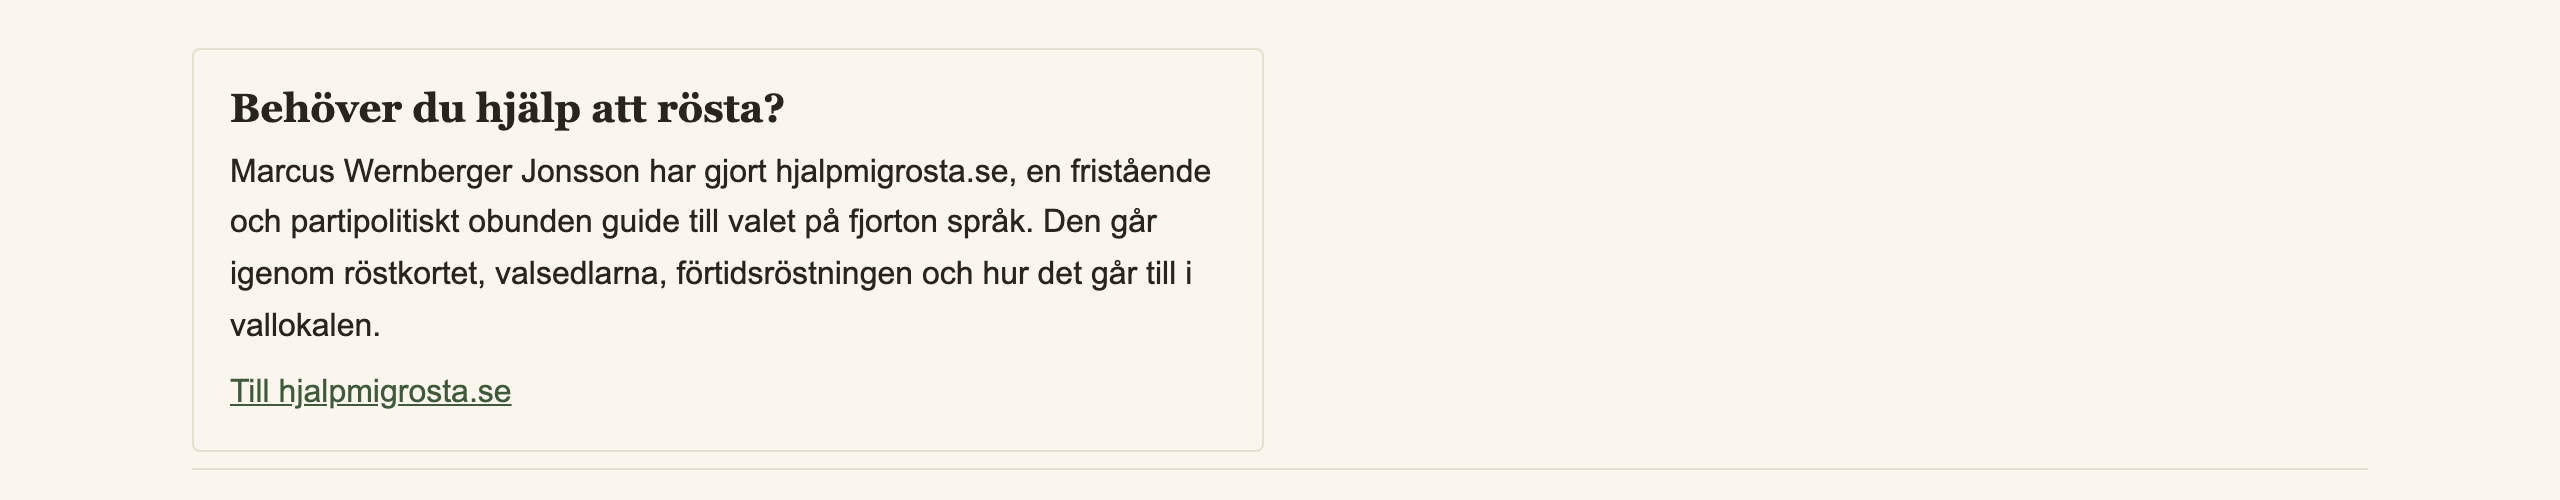
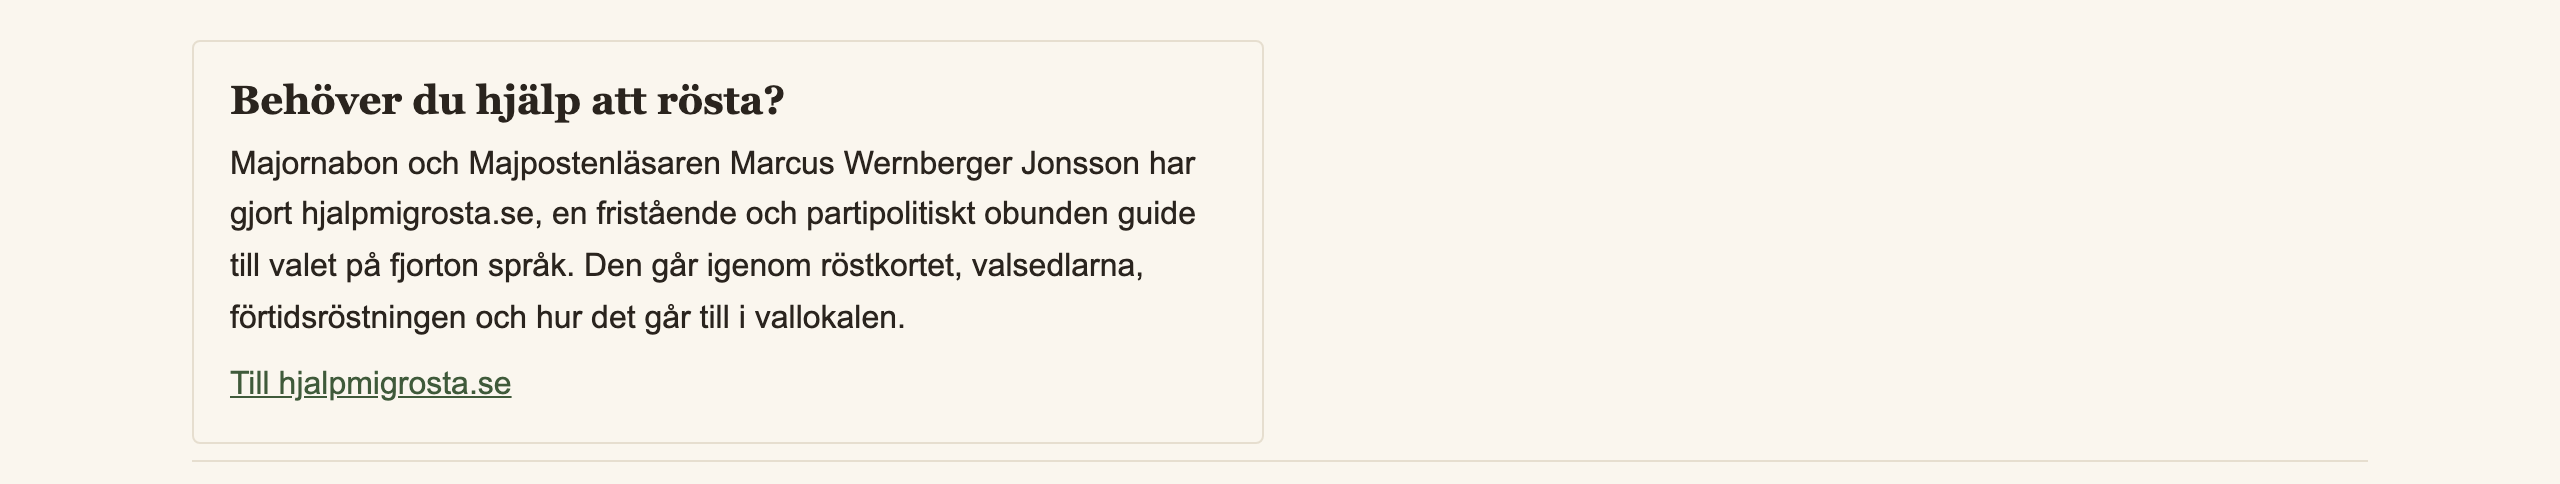
Rösthjälpsrutan: Majornabon i texten, sista meningen kapad på mobil
Daniels formulering och hans kapning.

- Texten inleds "Majornabon och Majpostenläsaren Marcus Wernberger Jonsson har
  gjort hjalpmigrosta.se ...". Att han bor i Majorna och läser Majposten är
  redaktionens uppgift, inte något som står på hans sida; det står i README och
  HANDOVER så att nästa session vet varifrån det kommer.
- Ny konfignyckel "extra" i en ruta: en avslutande mening som bara visas från
  600 px containerbredd. Den ligger i samma stycke som text, så meningarna
  hänger ihop när båda syns, och klassen .ruta-extra är dold som standard.
  Uppmätt på index: utan den är rutan 6 rader i 320 px och 5 i 390 px, med den
  8 respektive 7. Nyckeln finns i schema.KONFIG_STANDARD med tomt värde.
- Kontrollerat att rutan överlever valnattens konfigskrivning: uppdatera_2026.py
  --valnatt rör bara ar, standardAr och valnatt, och hjalp med extra följer med
  genom las_konfig och skriv_konfig till både konfig.json och konfig.js.

pytest 374 passerade. skal-check, beehiiv-check, tvaar-check, historik-check och
bredd-check gröna (227 av 227) på nybyggda testsidor.

diff --git a/data/konfig.js b/data/konfig.js
@@ -1,1 +1,1 @@
-window.MAJPOSTEN=window.MAJPOSTEN||{data:{}};window.MAJPOSTEN.data["konfig"]={"ar":["2010","2014","2018","2022"],"standardAr":"2022","valnatt":false,"adress":"https://majposten.se/val2026","inbaddad":false,"skrivUrl":true,"stickyTopp":105,"valdag":"2026-09-13","toppsvar":{"mening":"Från cirka klockan 20 på valnatten kommer siffrorna löpande här."},"historik":{"visa":true,"mening":{"rd":"","rf":"","kf":""}},"samarbete":{"visa":false,"namn":"Majornas Bryggeri","text":"I samarbete med","lank":"","logga":"","valvaka":{"visa":false,"rubrik":"Valvaka på Majornas Bryggeri","text":"[KOLLA] Tid, plats och vad som händer.","lank":""}},"hjalp":{"visa":true,"rubrik":"Behöver du hjälp att rösta?","text":"Marcus Wernberger Jonsson har gjort hjalpmigrosta.se, en fristående och partipolitiskt obunden guide till valet på fjorton språk. Den går igenom röstkortet, valsedlarna, förtidsröstningen och hur det går till i vallokalen.","lank":"https://hjalpmigrosta.se/sv/start/","lanktext":"Till hjalpmigrosta.se"}};
+window.MAJPOSTEN=window.MAJPOSTEN||{data:{}};window.MAJPOSTEN.data["konfig"]={"ar":["2010","2014","2018","2022"],"standardAr":"2022","valnatt":false,"adress":"https://majposten.se/val2026","inbaddad":false,"skrivUrl":true,"stickyTopp":105,"valdag":"2026-09-13","toppsvar":{"mening":"Från cirka klockan 20 på valnatten kommer siffrorna löpande här."},"historik":{"visa":true,"mening":{"rd":"","rf":"","kf":""}},"samarbete":{"visa":false,"namn":"Majornas Bryggeri","text":"I samarbete med","lank":"","logga":"","valvaka":{"visa":false,"rubrik":"Valvaka på Majornas Bryggeri","text":"[KOLLA] Tid, plats och vad som händer.","lank":""}},"hjalp":{"visa":true,"rubrik":"Behöver du hjälp att rösta?","text":"Majornabon och Majpostenläsaren Marcus Wernberger Jonsson har gjort hjalpmigrosta.se, en fristående och partipolitiskt obunden guide till valet på fjorton språk.","lank":"https://hjalpmigrosta.se/sv/start/","lanktext":"Till hjalpmigrosta.se","extra":"Den går igenom röstkortet, valsedlarna, förtidsröstningen och hur det går till i vallokalen."}};

diff --git a/valgrafik.css b/valgrafik.css
@@ -49,6 +49,7 @@
 .mp-val .ruta h2 { font: 700 20px/1.3 var(--serif); margin: 0 0 6px; }
 .mp-val .ruta p { font-size: 16px; margin: 0 0 8px; }
 .mp-val .ruta p:last-child { margin-bottom: 0; }
+.mp-val .ruta-extra { display: none; }   /* rutans avslutande mening: bara från 600 px, se @container nedan */
 .mp-val .not { font-size: 14px; line-height: 1.5; color: var(--sten); margin: 8px 0 0; }
 .mp-val .not b { color: var(--black); }
 .mp-val a { color: var(--gron); }
@@ -245,6 +246,7 @@
 .mp-val .fel { background: #F3E3DF; color: var(--falu); padding: 12px 16px; border-radius: 4px; }
 @container (min-width: 600px) {
   .mp-val .statusrad { min-height: 26px; }   /* här ryms hela raden på en rad, även den längsta valnattsvarianten */
+  .mp-val .ruta-extra { display: inline; }   /* här ryms rutans sista mening utan att bli en vägg */
   .mp-val .toppsvar { min-height: 314px; }   /* uppmätt: alla partier utom Övriga, åtta rader 282 plus rubrikens 31,6 = 313,6 */
   .mp-val h1 { font-size: 44px; }
   .mp-val .stapel-rad { grid-template-columns: 150px 1fr 96px; }

diff --git a/valgrafik.js b/valgrafik.js
@@ -527,7 +527,14 @@ function lankad(text, url, klass) {   // tom länk ger ren text, aldrig ett tomt
 }
 function ruta(post, standardLanktext) {
   const el = h("div", { class: "ruta" }, h("h2", {}, post.rubrik || ""));
-  if (post.text) el.append(h("p", {}, post.text));
+  // post.extra är en avslutande mening som bara visas från 600 px containerbredd: på en telefon blir
+  // rutan annars en textvägg som skjuter ned kartan. Den ligger i samma stycke, inte i ett eget, så att
+  // texten läses som en sammanhängande mening när den syns.
+  if (post.text) {
+    const stycke = h("p", {}, post.text);
+    if (post.extra) stycke.append(" ", h("span", { class: "ruta-extra" }, post.extra));
+    el.append(stycke);
+  }
   // target _top: blocket ligger i en iframe hos Beehiiv, och utan det byts grafiken mot den länkade
   // sidan inuti iframen i stället för att läsaren lämnar till den. Utanför en iframe beter sig _top
   // precis som ett vanligt klick.

diff --git a/tests/test_inbaddning.py b/tests/test_inbaddning.py
@@ -753,3 +753,20 @@ def test_omritade_distrikt_tonas_i_konturkartorna():
     assert "rakneord(omritade.size)" in karta, "små tal skrivs ut i löptext, inte som siffra"
     assert 'är tonat" : "är tonade"' in karta, "noten böjer sig efter antalet"
     assert "omritade.size" in karta, "noten nämner tonen bara när något faktiskt är tonat"
+
+
+def test_rutans_sista_mening_kapas_pa_mobil():
+    """Rösthjälpsrutans avslutande mening visas först från 600 px containerbredd. Uppmätt på index:
+    utan den är rutan 6 rader i 320 px och 5 i 390 px, med den 8 respektive 7."""
+    js = JS.read_text("utf-8")
+    css = CSS.read_text("utf-8")
+    kropp = js[js.index("function ruta("):]
+    kropp = kropp[:kropp.index("\n}\n")]
+    assert "post.extra" in kropp and 'class: "ruta-extra"' in kropp, "meningen ligger i en egen span"
+    assert 'h("p", {}, post.text)' in kropp, "spanen ligger i samma stycke som texten"
+    dold = next((r for r in css.splitlines() if r.startswith(".mp-val .ruta-extra {")), None)
+    assert dold and "display: none" in dold, "dold som standard, alltså på mobil"
+    syns = None
+    for m in re.finditer(r"@container \(min-width: 600px\) \{(.*?)\n\}\n", css, re.S):
+        syns = syns or next((r for r in m.group(1).splitlines() if r.strip().startswith(".mp-val .ruta-extra {")), None)
+    assert syns and "display: inline" in syns, "visas från 600 px containerbredd"

diff --git a/scripts/schema.py b/scripts/schema.py
@@ -21,10 +21,12 @@ KONFIG_STANDARD = {
         "valvaka": {"visa": False, "rubrik": "Valvaka på Majornas Bryggeri",
                     "text": "[KOLLA] Tid, plats och vad som händer.", "lank": ""},
     },
+    # "extra" är en avslutande mening som sidan bara visar från 600 px containerbredd: på en telefon
+    # blir rutan annars en textvägg. Tom som standard, redaktionen fyller den i data/konfig.json.
     "hjalp": {
         "visa": False, "rubrik": "Behöver du hjälp att rösta?",
         "text": "hjalpmigrosta.se förklarar hur valet går till, på flera språk.",
-        "lank": "https://hjalpmigrosta.se", "lanktext": "Till hjalpmigrosta.se",
+        "extra": "", "lank": "https://hjalpmigrosta.se", "lanktext": "Till hjalpmigrosta.se",
     },
 }
 

diff --git a/docs/HANDOVER.md b/docs/HANDOVER.md
@@ -94,7 +94,7 @@ Göteborg hade 411 valdistrikt 2022 inklusive uppsamlingsdistriktet. `uppdatera_
 15. **En enda jämförelsemarkör i "Hela Majorna"**, inte två. Riket för riksdagsvalet, Västra Götaland för regionvalet, Göteborg för kommunvalet - samma områden som "Majorna mot Sverige" använder, i stället för att visa både Göteborg och riket samtidigt (Daniel: "för plottrigt").
 16. **Kortets topp tre-mening borttagen.** Den upprepade det staplarna redan visar. Kvar blev en enda dämpad rad: valdeltagande (med jämförelseområdet inom parentes) och antal giltiga röster. **Ändrat i grupp 1 2026-09-07:** även den raden är borta - valdeltagandet står redan i toppsvaret. Underraden bär numera bara valnattens "X av Y distrikt räknade." och är tom och dold i övrigt.
 17. **"Röstdelningen" ersatt helt.** Det gamla lutningsdiagrammet (SVG) byttes mot HTML-rader i samma stil som "Majorna mot Sverige": en rad per parti med markörer för riksdag (cirkel), region (romb) och kommun (kvadrat) på en gemensam procentaxel, plus exakta tal. Andelarna räknas ur en kohort av distrikt som är räknade i alla val som visas, inte ur de färdiga aggregaten, så att valnattens ofullständiga data inte blandar ihop olika distriktsmängder.
-18. **Samarbetsblock och rösthjälp förberedda.** En rad "I samarbete med Majornas Bryggeri" i sidhuvudet och upp till två rutor (valvaka, hjalpmigrosta.se) direkt under, allt styrt av `samarbete`/`hjalp` i `data/konfig.json`. **Ändrat 2026-09-08:** rösthjälpsrutan är påslagen (`hjalp.visa: true`) och pekar på hjalpmigrosta.se, en fristående och partipolitiskt obunden valguide gjord av Marcus Wernberger Jonsson. Texten är kontrollerad mot sidans egen om-sida och mot dess "Hur röstar jag": fjorton språk räknade ur språkväljaren, och guiden tar upp röstkortet, valsedlarna, förtidsröstningen och vallokalen. Samarbetsraden och valvakerutan är fortfarande avstängda, med Daniels platshållartexter. Rutornas länkar fick samtidigt `target="_top"`: rösthjälpsrutan är den första länken grafiken har i standardläget, och utan `_top` hände ingenting alls vid klick inuti Beehiivs iframe - uppmätt i `docs/beehiivtest.html`, där toppfönstret nu går till hjalpmigrosta.se. Samma dag kortades källraden i "Om siffrorna" till bara `meta.kalla`: ordet slutlig eller preliminär står redan där, så statusmeningen var en upprepning, och andelsdefinitionen togs bort på Daniels begäran. En avslutande punkt i `kalla` skalas av innan raden skrivs, eftersom historikårens filer har en och 2022 års inte - annars stod det "per valdistrikt 2018.." i väljarens historiska år.
+18. **Samarbetsblock och rösthjälp förberedda.** En rad "I samarbete med Majornas Bryggeri" i sidhuvudet och upp till två rutor (valvaka, hjalpmigrosta.se) direkt under, allt styrt av `samarbete`/`hjalp` i `data/konfig.json`. **Ändrat 2026-09-08:** rösthjälpsrutan är påslagen (`hjalp.visa: true`) och pekar på hjalpmigrosta.se, en fristående och partipolitiskt obunden valguide gjord av Marcus Wernberger Jonsson. Texten är kontrollerad mot sidans egen om-sida och mot dess "Hur röstar jag": fjorton språk räknade ur språkväljaren, och guiden tar upp röstkortet, valsedlarna, förtidsröstningen och vallokalen. Samarbetsraden och valvakerutan är fortfarande avstängda, med Daniels platshållartexter. Texten nämner att han är Majornabo och Majpostenläsare; det är redaktionens uppgift, inte något som står på hans sida, och står här så att nästa session vet varifrån den kommer. Rutans avslutande mening ligger i konfignyckeln `extra` och visas först från 600 px containerbredd - på en telefon blev rutan annars 8 rader i 320 px i stället för 6. Rutornas länkar fick samtidigt `target="_top"`: rösthjälpsrutan är den första länken grafiken har i standardläget, och utan `_top` hände ingenting alls vid klick inuti Beehiivs iframe - uppmätt i `docs/beehiivtest.html`, där toppfönstret nu går till hjalpmigrosta.se. Samma dag kortades källraden i "Om siffrorna" till bara `meta.kalla`: ordet slutlig eller preliminär står redan där, så statusmeningen var en upprepning, och andelsdefinitionen togs bort på Daniels begäran. En avslutande punkt i `kalla` skalas av innan raden skrivs, eftersom historikårens filer har en och 2022 års inte - annars stod det "per valdistrikt 2018.." i väljarens historiska år.
 19. **Beehiivs `iframe srcdoc` kartlagd och kompenserad.** Djuplänkar och URL-skrivning går via `window.parent.location` när föräldern går att nå (`sidLocation()`/`sidHistory()`), eftersom iframens egen adress är `about:srcdoc`. `stickyTopp` höjdes från 16 till 105 px (Beehiivs klibbiga meny är 89 px) och används även som `scroll-margin-top`, eftersom `position: sticky` är verkningslöst inuti iframen (inget rullar där). Se README-avsnittet Beehiiv och `docs/beehiivtest.html`.
 
 20. **Valnatten läser Valmyndighetens JSON, inte xlsx.** 2026 publiceras resultatet som zip-filer med JSON på `resultat.val.se/resultatfiler/val2026/`. `scripts/hamta_2026.py` hämtar de tre filer Majorna behöver (riksdagen för hela landet, regionvalet för Västra Götaland, kommunvalet för Göteborg), kontrollerar md5 mot `index.md5` och signaturerna mot Valmyndighetens certifikat, och packar upp till `data/valnatt/<tidsstämpel>/` med `senaste` som symlänk. `scripts/valnatt.py` mappar formatet till sidans schema. Xlsx- och CSV-vägarna finns kvar som reservvägar. Filval sker på katalog plus suffix, aldrig på hela filnamnet: prefixet skiljer sig mellan genrep och skarpt.

diff --git a/README.md b/README.md
@@ -156,13 +156,15 @@ Två redaktionella block som styrs helt från `data/konfig.json`: en samarbetsra
                "valvaka": { "visa": false, "rubrik": "Valvaka på Majornas Bryggeri",
                             "text": "[KOLLA] Tid, plats och vad som händer.", "lank": "" } },
 "hjalp":     { "visa": true, "rubrik": "Behöver du hjälp att rösta?",
-               "text": "Marcus Wernberger Jonsson har gjort hjalpmigrosta.se, en fristående och partipolitiskt obunden guide till valet på fjorton språk. Den går igenom röstkortet, valsedlarna, förtidsröstningen och hur det går till i vallokalen.",
+               "text": "Majornabon och Majpostenläsaren Marcus Wernberger Jonsson har gjort hjalpmigrosta.se, en fristående och partipolitiskt obunden guide till valet på fjorton språk.",
+               "extra": "Den går igenom röstkortet, valsedlarna, förtidsröstningen och hur det går till i vallokalen.",
                "lank": "https://hjalpmigrosta.se/sv/start/", "lanktext": "Till hjalpmigrosta.se" }
 ```
 
 - `samarbete.visa` slår på raden "I samarbete med Majornas Bryggeri" i sidhuvudet, under toppsvaret. Raden visas inte i bildläget och inte när `inbaddad` är på, eftersom rubriken då är dold.
 - `samarbete.logga` är en adress till en bild, antingen absolut eller relativ till `data-bas` (lägg filen i `bilder/`, till exempel `bilder/majornas-bryggeri.png`). Loggan visas i högst 44 px höjd med namnet som alt-text. Tom logga ger bara text.
-- `samarbete.valvaka.visa` slår på valvakerutan, och kräver att `samarbete.visa` också är på. `hjalp.visa` slår på rösthjälpsrutan för sig; den är påslagen sedan 2026-09-08 och pekar på hjalpmigrosta.se. Rutornas länkar har `target="_top"`: utan det byter en länk ut grafiken mot den länkade sidan **inuti** Beehiivs iframe i stället för att läsaren lämnar dit, och i praktiken hände ingenting alls vid klick (uppmätt i `docs/beehiivtest.html`). Utanför en iframe beter sig `_top` som ett vanligt klick. Antalet språk i texten (fjorton) är räknat ur sidans egen språkväljare 2026-09-08 - lägger de till fler måste talet ändras för hand. Rutorna ligger sida vid sida från 900 px containerbredd, under varandra på mobil, och visas även när `inbaddad` är på.
+- `samarbete.valvaka.visa` slår på valvakerutan, och kräver att `samarbete.visa` också är på. `hjalp.visa` slår på rösthjälpsrutan för sig; den är påslagen sedan 2026-09-08 och pekar på hjalpmigrosta.se. Rutornas länkar har `target="_top"`: utan det byter en länk ut grafiken mot den länkade sidan **inuti** Beehiivs iframe i stället för att läsaren lämnar dit, och i praktiken hände ingenting alls vid klick (uppmätt i `docs/beehiivtest.html`). Utanför en iframe beter sig `_top` som ett vanligt klick. Antalet språk i texten (fjorton) är räknat ur sidans egen språkväljare 2026-09-08 - lägger de till fler måste talet ändras för hand. Att Marcus Wernberger Jonsson bor i Majorna och läser Majposten är redaktionens uppgift, inte något som står på hans sida.
+- `extra` i en ruta är en avslutande mening som bara visas från 600 px containerbredd (`.ruta-extra`, dold som standard). Den ligger i samma stycke som `text`, så meningarna hänger ihop när båda syns. Uppmätt på index: utan den är rösthjälpsrutan 6 rader i 320 px och 5 i 390 px, med den 8 respektive 7. Rutorna ligger sida vid sida från 900 px containerbredd, under varandra på mobil, och visas även när `inbaddad` är på.
 - Alla `lank` är tomma platshållare tills adresserna är klara. Med tom länk renderas texten som ren text, aldrig som en tom länk.
 
 Slå på ett block genom att sätta `visa` till `true` i `data/konfig.json` och skriva om `konfig.js`, så att de två filerna aldrig glider isär:
